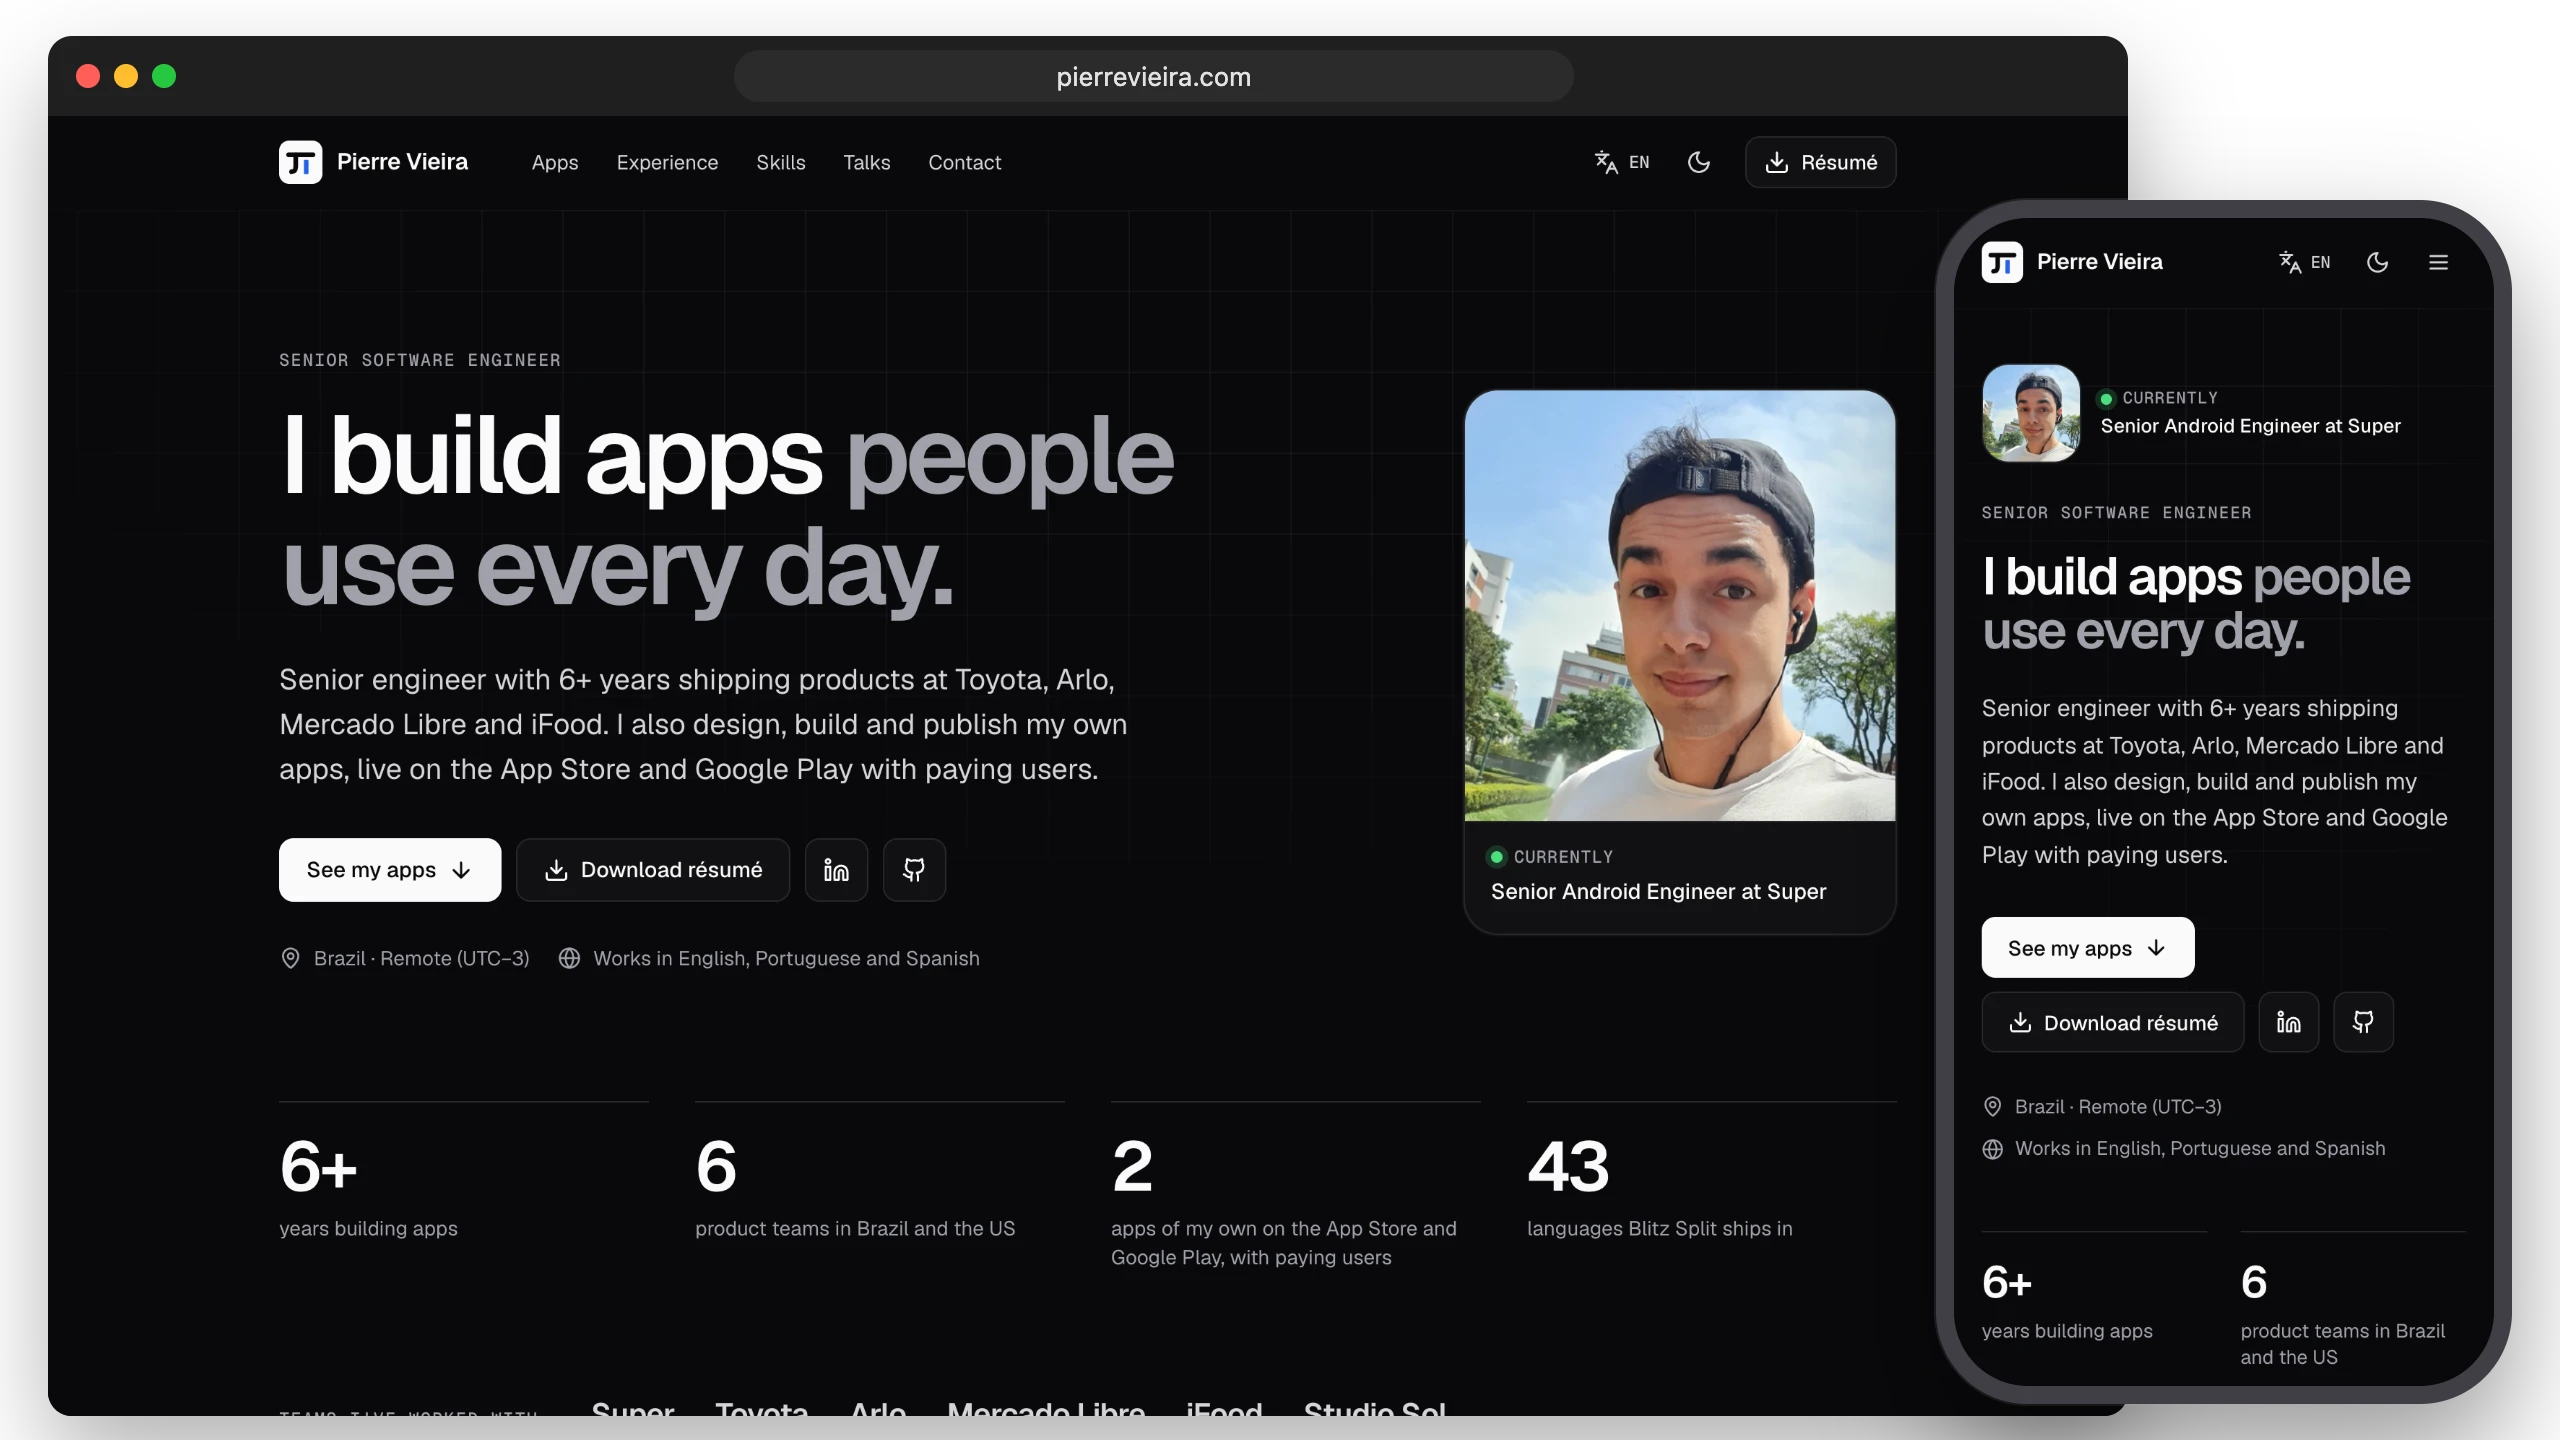
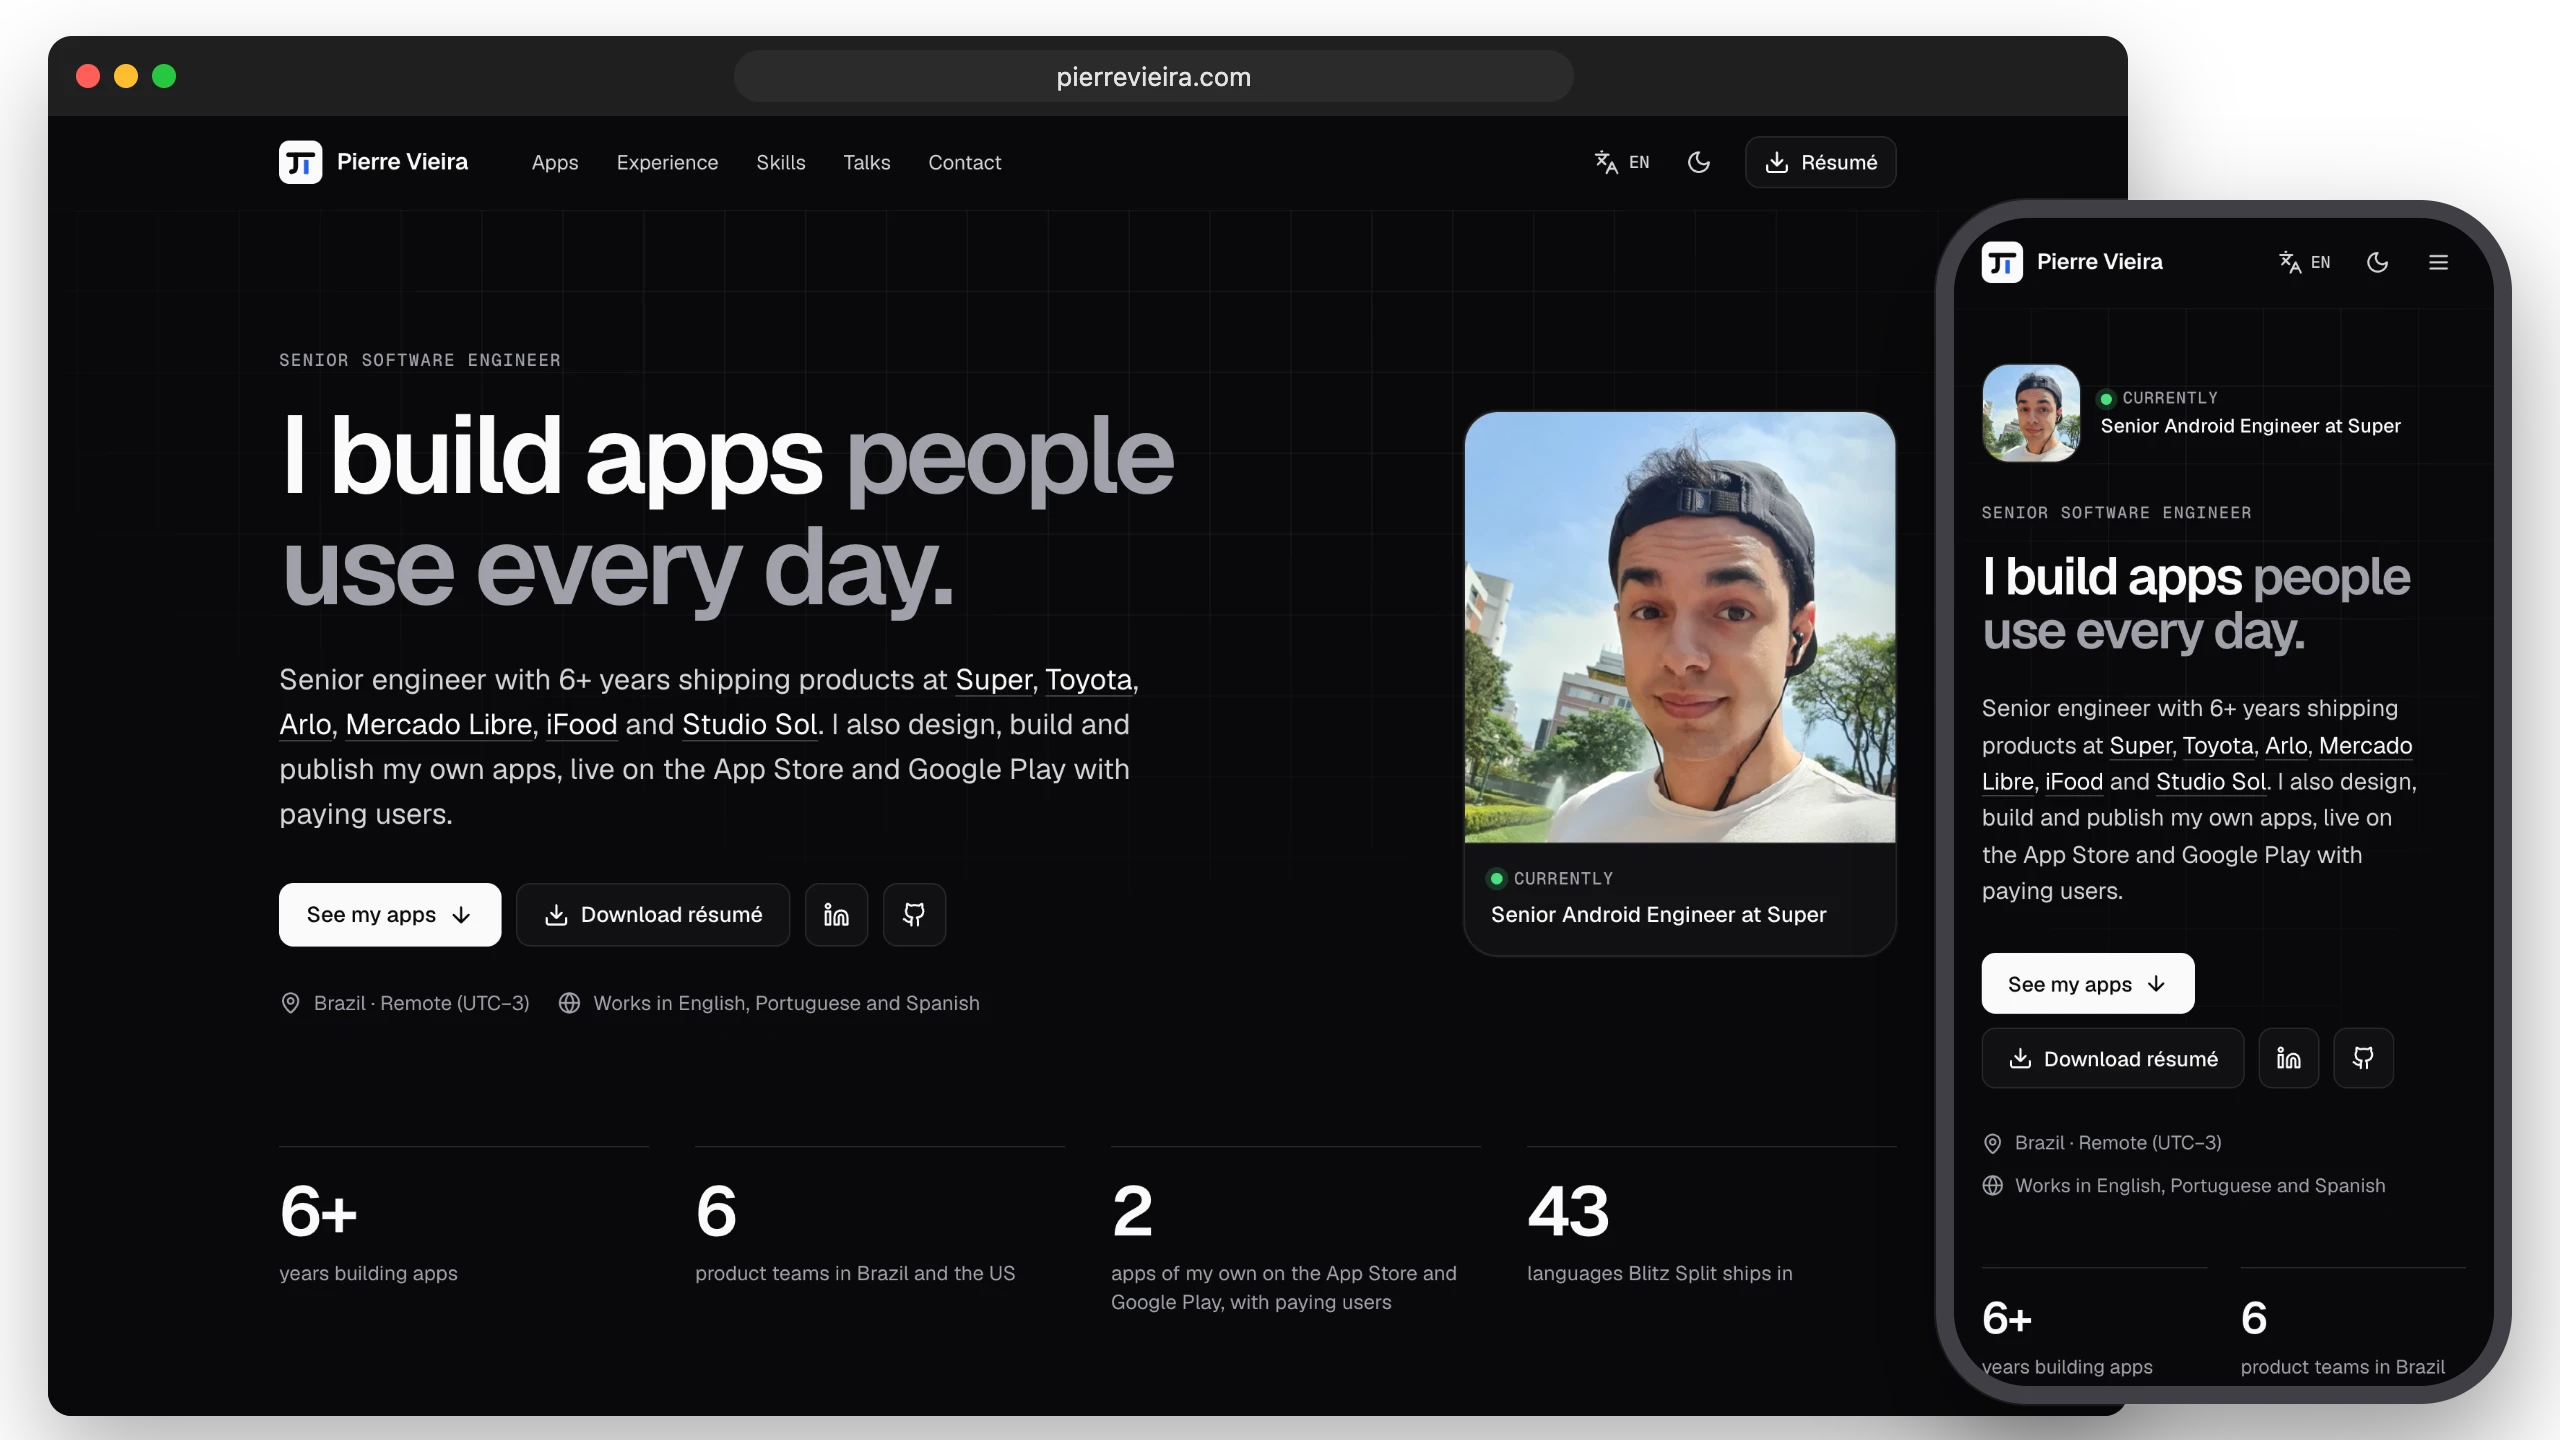
Name every company in the hero and add llms.txt and the ARD manifest
- The hero's lead now names Super, Toyota, Arlo, Mercado Libre, iFood and
  Studio Sol, each linking to its site, in every language; the meta and
  og descriptions list them too. The README's hero image is redrawn.
- public/llms.txt describes the site for AI agents, and
  public/.well-known/ard.json (also at ai-catalog.json, its older name)
  is its Agentic Resource Discovery manifest, linked from the page's
  head. Without them the single-page fallback answered with HTML and
  Lighthouse's Agentic Browsing audits failed.

diff --git a/public/index.html b/public/index.html
@@ -4,17 +4,19 @@
   <meta charset="utf-8">
   <meta name="viewport" content="width=device-width, initial-scale=1, viewport-fit=cover">
   <title data-i18n="metaTitle">Pierre Vieira · Senior Software Engineer</title>
-  <meta name="description" data-i18n-content="metaDescription" content="Senior software engineer building apps people use every day. Shipped products at Toyota, Arlo, Mercado Libre and iFood, and the maker of Blitz Split and Bible Planner.">
+  <meta name="description" data-i18n-content="metaDescription" content="Senior software engineer building apps people use every day. Shipped products at Super, Toyota, Arlo, Mercado Libre, iFood and Studio Sol, and the maker of Blitz Split and Bible Planner.">
   <meta name="theme-color" content="#fafafa" media="(prefers-color-scheme: light)">
   <meta name="theme-color" content="#09090b" media="(prefers-color-scheme: dark)">
   <link rel="canonical" href="https://pierrevieira.com/">
   <link rel="icon" href="/favicon.ico" sizes="32x32">
   <link rel="icon" href="/icon.svg" type="image/svg+xml">
   <link rel="apple-touch-icon" href="/apple-touch-icon.png">
+  <link rel="ard" href="/.well-known/ard.json">
+  <link rel="describedby" href="/llms.txt" type="text/markdown">
   <meta property="og:type" content="profile">
   <meta property="og:url" content="https://pierrevieira.com/">
   <meta property="og:title" content="Pierre Vieira · Senior Software Engineer">
-  <meta property="og:description" content="I build apps people use every day. Toyota, Arlo, Mercado Libre, iFood, and two apps of my own.">
+  <meta property="og:description" content="I build apps people use every day. Super, Toyota, Arlo, Mercado Libre, iFood, Studio Sol and two apps of my own.">
   <meta property="og:image" content="https://pierrevieira.com/img/pierre-vieira.jpg">
   <meta name="twitter:card" content="summary">
   <link rel="preload" href="/fonts/geist-latin.woff2" as="font" type="font/woff2" crossorigin>
@@ -125,7 +127,7 @@
         <div class="hero-copy">
           <p class="eyebrow"><span data-i18n="heroEyebrow">Senior Software Engineer</span></p>
           <h1 data-i18n-html="heroTitle">I build apps <span class="dim">people use every day.</span></h1>
-          <p class="lead" data-i18n-html="heroLead">Senior engineer with <span data-years>6</span>+ years shipping products at Toyota, Arlo, Mercado Libre and iFood. I also design, build and publish my own apps, live on the App Store and Google Play with paying users.</p>
+          <p class="lead" data-i18n-html="heroLead">Senior engineer with <span data-years>6</span>+ years shipping products at <a class="link" href="https://super.xyz/" target="_blank" rel="noopener">Super</a>, <a class="link" href="https://www.toyota.com/" target="_blank" rel="noopener">Toyota</a>, <a class="link" href="https://www.arlo.com/" target="_blank" rel="noopener">Arlo</a>, <a class="link" href="https://www.mercadolivre.com.br/" target="_blank" rel="noopener">Mercado Libre</a>, <a class="link" href="https://www.ifood.com.br/" target="_blank" rel="noopener">iFood</a> and <a class="link" href="https://www.studiosol.com.br/" target="_blank" rel="noopener">Studio Sol</a>. I also design, build and publish my own apps, live on the App Store and Google Play with paying users.</p>
           <div class="actions">
             <a class="btn btn-primary" href="#apps"><span data-i18n="heroPrimary">See my apps</span><svg class="icon" aria-hidden="true"><use href="#i-down"/></svg></a>
             <a class="btn btn-ghost" href="/cv/pierre-vieira-cv.pdf" download><svg class="icon" aria-hidden="true"><use href="#i-download"/></svg><span data-i18n="cvDownload">Download résumé</span></a>

diff --git a/public/strings/pt.js b/public/strings/pt.js
@@ -5,7 +5,7 @@
 window.SITE_STRINGS = window.SITE_STRINGS || {};
 window.SITE_STRINGS.pt = {
   metaTitle: "Pierre Vieira · Engenheiro de Software Sênior",
-  metaDescription: "Engenheiro de software sênior, criando apps que as pessoas usam todos os dias. Entregou produtos na Toyota, Arlo, Mercado Livre e iFood, e criador do Bora Rachar e do Bible Planner.",
+  metaDescription: "Engenheiro de software sênior, criando apps que as pessoas usam todos os dias. Entregou produtos na Super, Toyota, Arlo, Mercado Livre, iFood e Studio Sol, e criador do Bora Rachar e do Bible Planner.",
   skip: "Pular para o conteúdo",
   brandLabel: "Pierre Vieira, início",
   navLabel: "Seções",
@@ -33,7 +33,7 @@ window.SITE_STRINGS.pt = {
   statusValue: "Engenheiro Android Sênior na Super",
   heroEyebrow: "Engenheiro de Software Sênior",
   heroTitle: "Crio apps <span class=\"dim\">que as pessoas usam todos os dias.</span>",
-  heroLead: "Engenheiro sênior, com mais de <span data-years>6</span> anos entregando produtos na Toyota, Arlo, Mercado Livre e iFood. Também projeto, desenvolvo e publico meus próprios apps, disponíveis na App Store e no Google Play, com usuários pagantes.",
+  heroLead: "Engenheiro sênior, com mais de <span data-years>6</span> anos entregando produtos na <a class=\"link\" href=\"https://super.xyz/\" target=\"_blank\" rel=\"noopener\">Super</a>, <a class=\"link\" href=\"https://www.toyota.com/\" target=\"_blank\" rel=\"noopener\">Toyota</a>, <a class=\"link\" href=\"https://www.arlo.com/\" target=\"_blank\" rel=\"noopener\">Arlo</a>, <a class=\"link\" href=\"https://www.mercadolivre.com.br/\" target=\"_blank\" rel=\"noopener\">Mercado Livre</a>, <a class=\"link\" href=\"https://www.ifood.com.br/\" target=\"_blank\" rel=\"noopener\">iFood</a> e <a class=\"link\" href=\"https://www.studiosol.com.br/\" target=\"_blank\" rel=\"noopener\">Studio Sol</a>. Também projeto, desenvolvo e publico meus próprios apps, disponíveis na App Store e no Google Play, com usuários pagantes.",
   heroPrimary: "Ver meus apps",
   metaLocation: "Brasil · Remoto (UTC−3)",
   metaLanguages: "Trabalho em inglês, português e espanhol",

diff --git a/public/strings/es.js b/public/strings/es.js
@@ -5,7 +5,7 @@
 window.SITE_STRINGS = window.SITE_STRINGS || {};
 window.SITE_STRINGS.es = {
   metaTitle: "Pierre Vieira · Ingeniero de Software Senior",
-  metaDescription: "Ingeniero de software senior que crea apps que la gente usa todos los días. Lanzó productos en Toyota, Arlo, Mercado Libre e iFood, y creador de Blitz Split y Bible Planner.",
+  metaDescription: "Ingeniero de software senior que crea apps que la gente usa todos los días. Lanzó productos en Super, Toyota, Arlo, Mercado Libre, iFood y Studio Sol, y creador de Blitz Split y Bible Planner.",
   skip: "Saltar al contenido",
   brandLabel: "Pierre Vieira, inicio",
   navLabel: "Secciones",
@@ -33,7 +33,7 @@ window.SITE_STRINGS.es = {
   statusValue: "Ingeniero Android Senior en Super",
   heroEyebrow: "Ingeniero de Software Senior",
   heroTitle: "Creo apps <span class=\"dim\">que la gente usa todos los días.</span>",
-  heroLead: "Ingeniero senior con más de <span data-years>6</span> años lanzando productos en Toyota, Arlo, Mercado Libre e iFood. También diseño, desarrollo y publico mis propias apps, disponibles en el App Store y Google Play, con usuarios de pago.",
+  heroLead: "Ingeniero senior con más de <span data-years>6</span> años lanzando productos en <a class=\"link\" href=\"https://super.xyz/\" target=\"_blank\" rel=\"noopener\">Super</a>, <a class=\"link\" href=\"https://www.toyota.com/\" target=\"_blank\" rel=\"noopener\">Toyota</a>, <a class=\"link\" href=\"https://www.arlo.com/\" target=\"_blank\" rel=\"noopener\">Arlo</a>, <a class=\"link\" href=\"https://www.mercadolivre.com.br/\" target=\"_blank\" rel=\"noopener\">Mercado Libre</a>, <a class=\"link\" href=\"https://www.ifood.com.br/\" target=\"_blank\" rel=\"noopener\">iFood</a> y <a class=\"link\" href=\"https://www.studiosol.com.br/\" target=\"_blank\" rel=\"noopener\">Studio Sol</a>. También diseño, desarrollo y publico mis propias apps, disponibles en el App Store y Google Play, con usuarios de pago.",
   heroPrimary: "Ver mis apps",
   metaLocation: "Brasil · Remoto (UTC−3)",
   metaLanguages: "Trabajo en inglés, portugués y español",

diff --git a/CLAUDE.md b/CLAUDE.md
@@ -19,6 +19,8 @@ build and no dependencies. Each file opens with a comment on what it holds; `doc
   the apps, from their repositories: never invent a figure. The hero keeps to "apps" and "software engineer", but for
   the current job under the portrait, which names Android; the Android and Kotlin Multiplatform detail belongs to the
   experience and skills sections.
+- `public/llms.txt` repeats the page's facts for AI agents (companies, roles, dates, apps): keep it in step with the
+  page.
 - The years of experience are never written by hand: a `[data-years]` element (`data-years="word"` spelled out) is
   filled by `site.js` from the first job's date, in every language.
 - Analytics goes through `window.track()` (`public/analytics.js`, Firebase project `pierrevieira-site`). A new event

diff --git a/docs/deploy.md b/docs/deploy.md
@@ -4,6 +4,11 @@ The site is a Cloudflare Worker with static assets only: `wrangler.jsonc` serves
 script, at pierrevieira.com and www.pierrevieira.com (Custom Domains, whose DNS records the deploy creates in the
 pierrevieira.com zone). Any unknown path answers with the page, as it has only one.
 
+For AI agents, `public/llms.txt` describes the site in Markdown and `public/.well-known/ard.json` is its Agentic
+Resource Discovery manifest (with the same content at `ai-catalog.json`, the older name). They must exist as files:
+a missing one would answer with the page, and Lighthouse's Agentic Browsing audits fail on HTML where they expect
+Markdown or JSON.
+
 ## From `main`
 
 Every commit on `main` deploys through [Workers Builds](https://developers.cloudflare.com/workers/ci-cd/builds/),
